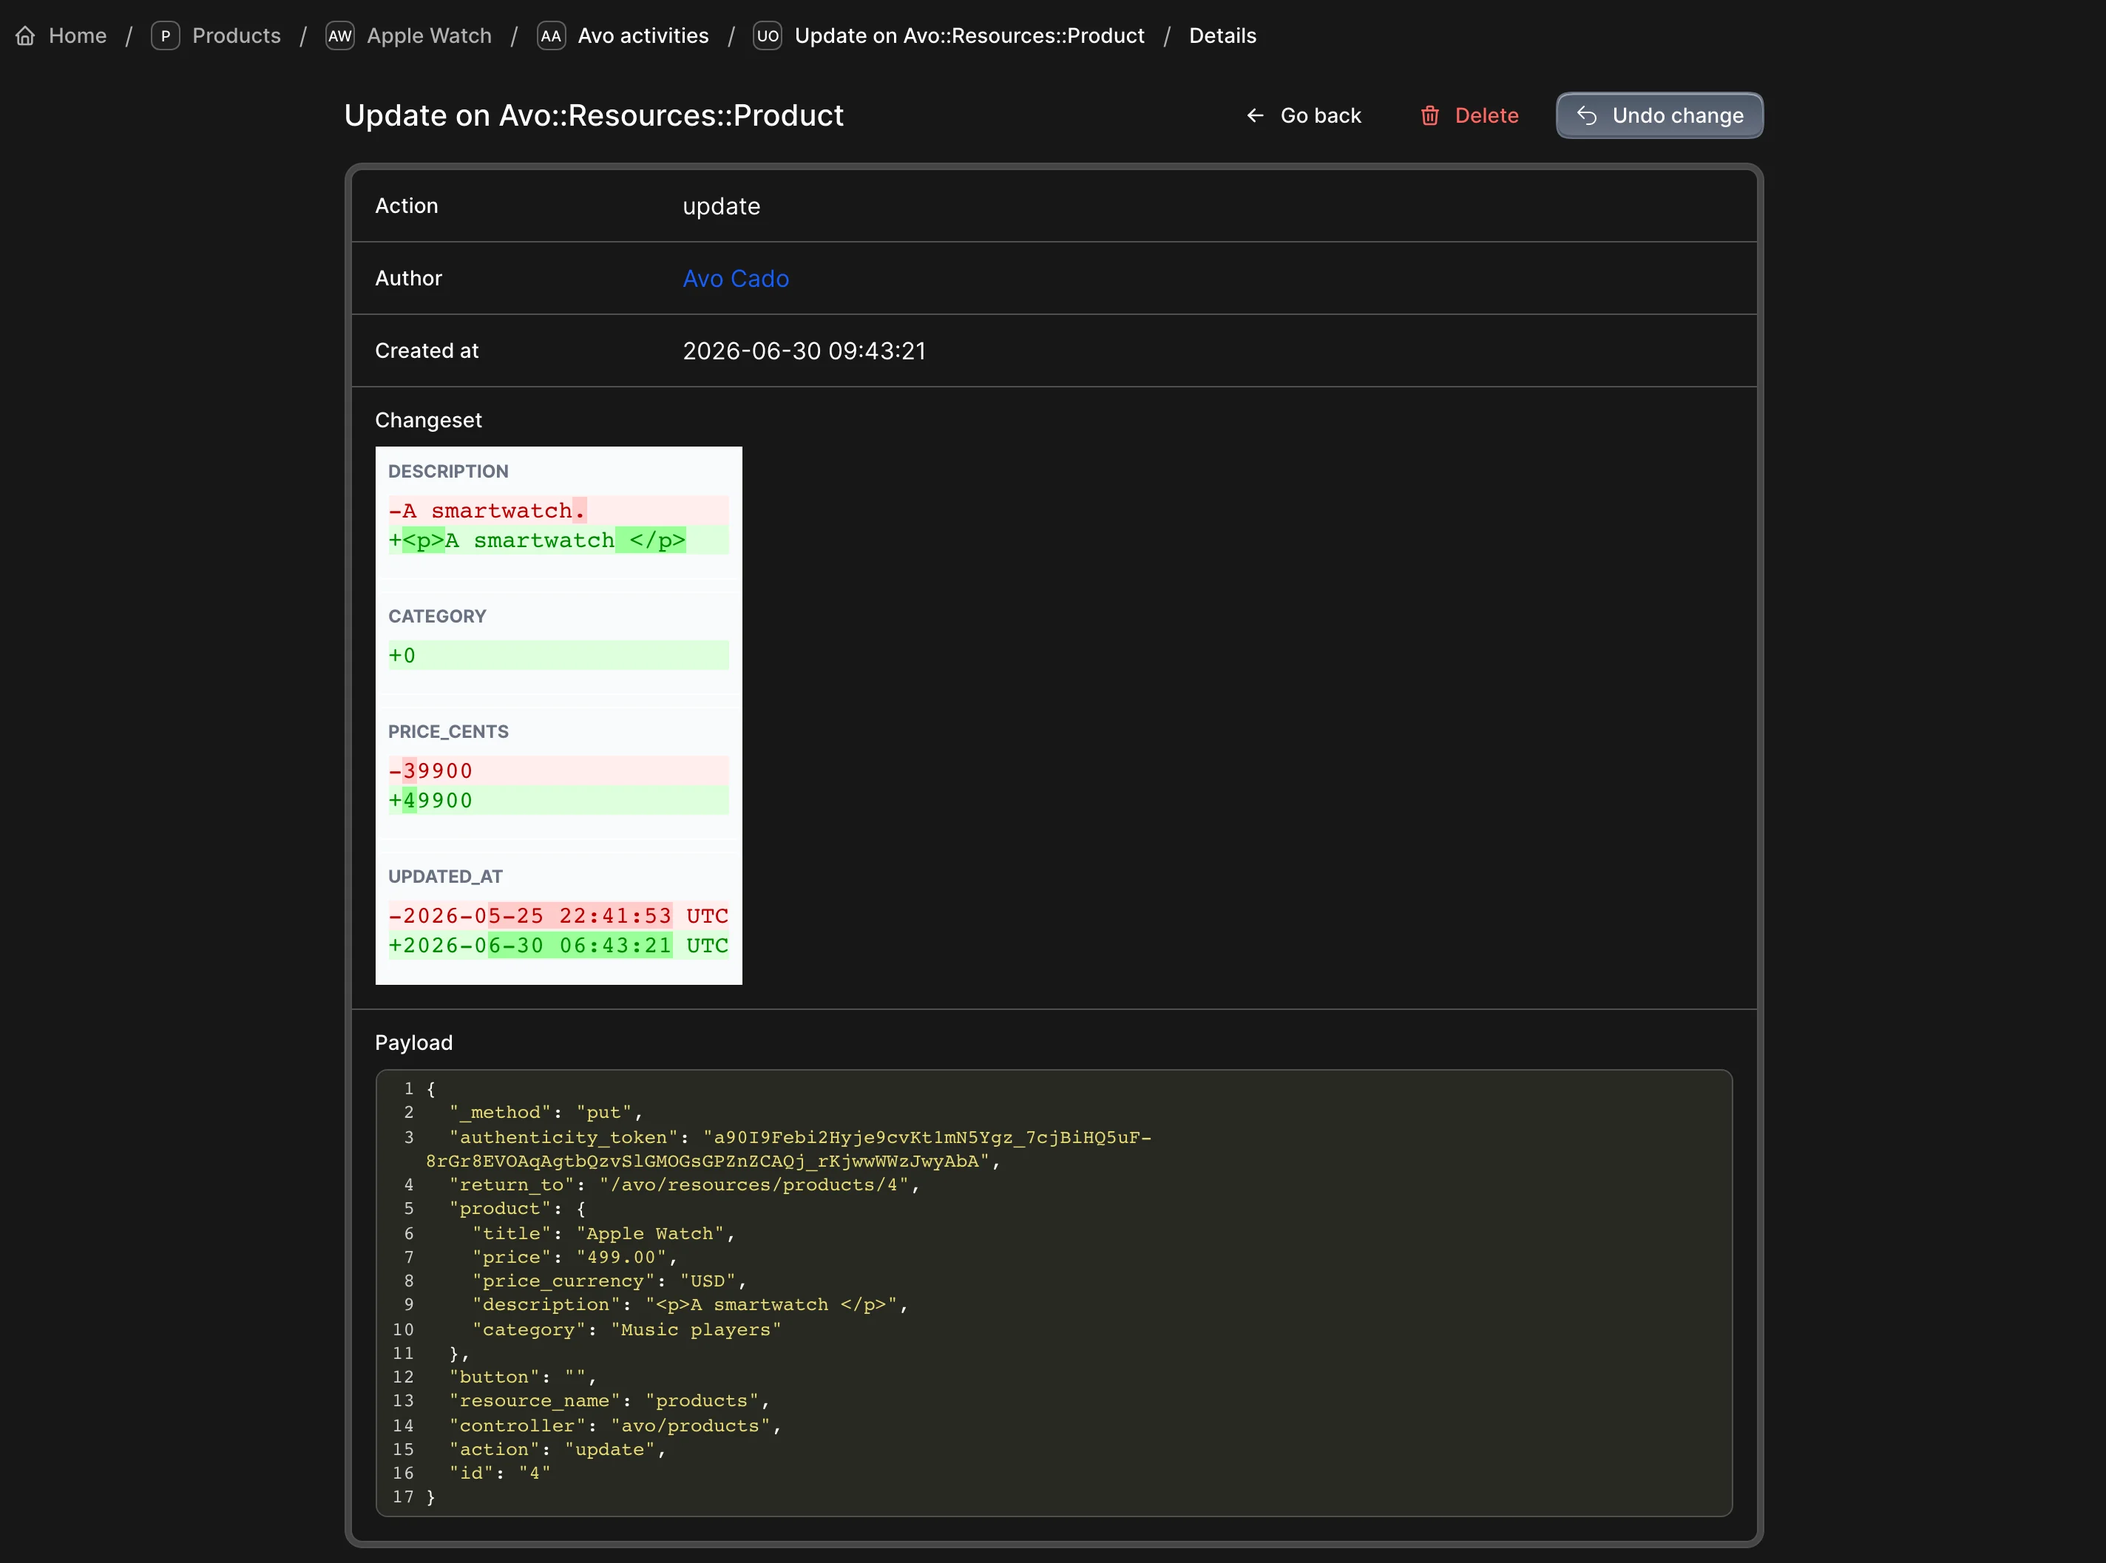
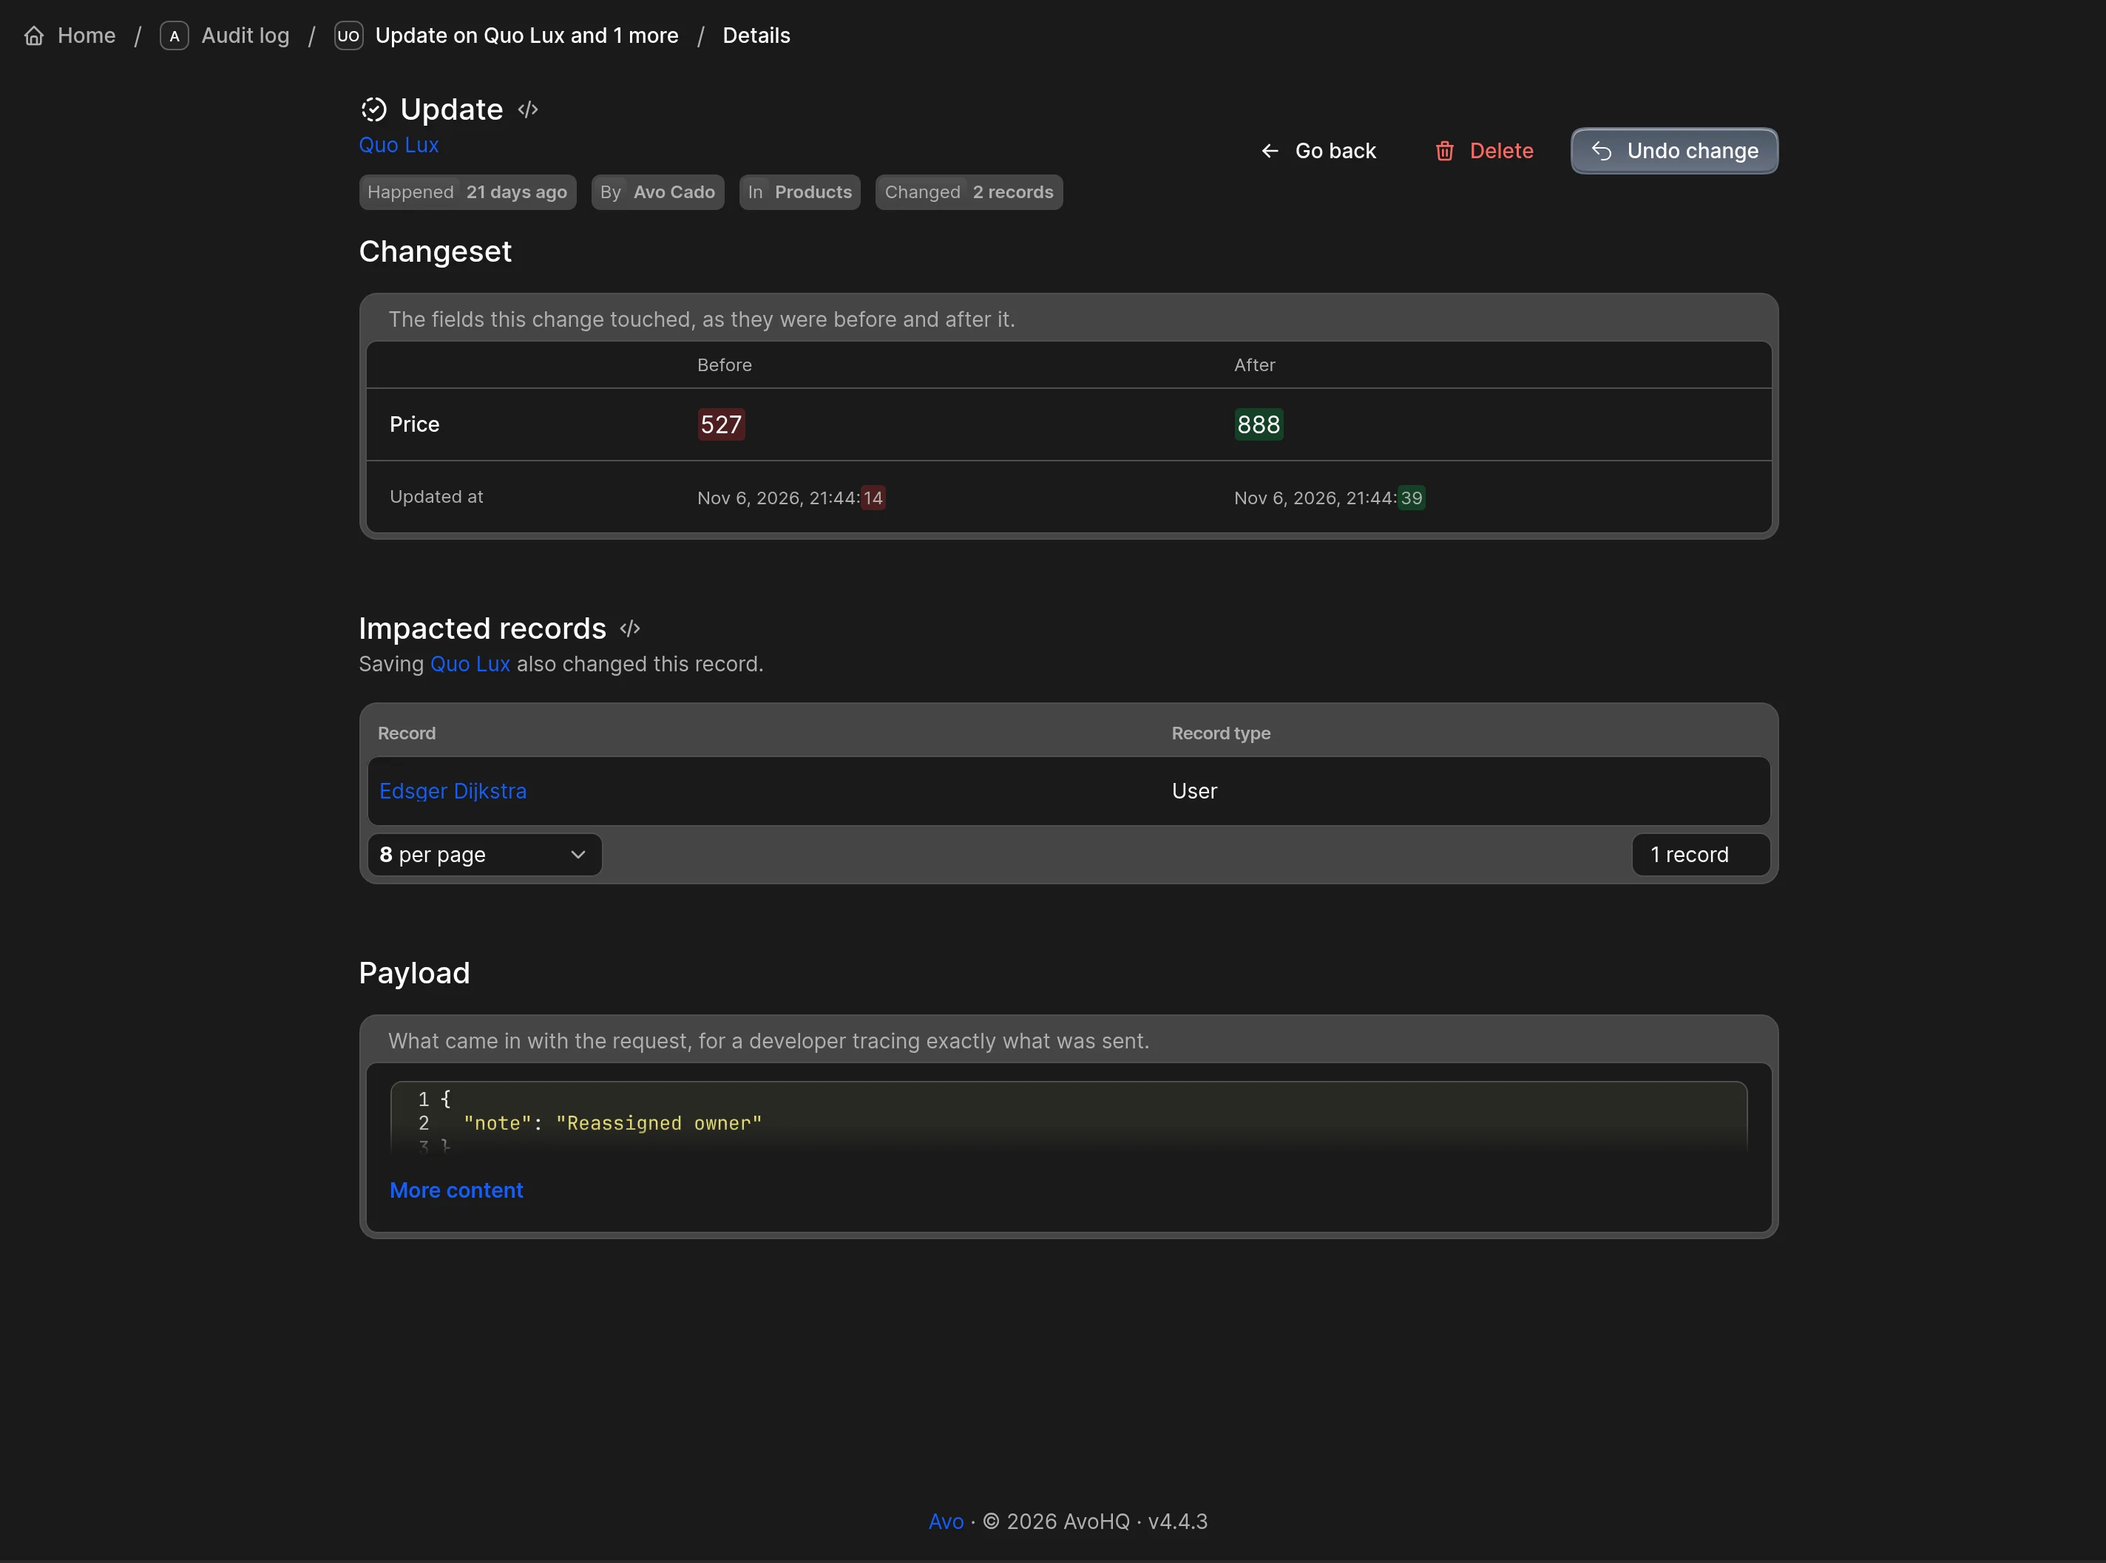
docs(audit-logging): the Audit log list and the reworked activity page
The page changed shape in avo-audit_logging 4.4.1, so the old text and screenshot described fields that are gone.
Covers the Changes tab, the pinned filters, the Changeset with Before, After and Now, Impacted records, Undo taking
chained records along, the `targeted` upgrade migration, the date format and origin label options, and the
`avo-diff_field` note for apps that used `as: :diff` through the gem's old dependency.

diff --git a/docs/4.0/audit-logging.md b/docs/4.0/audit-logging.md
@@ -20,7 +20,7 @@ Activity tracking works with either `paper_trail` or `audited`, but you must hav
 - An [Avo Enterprise](https://savvycal.com/avo-hq/discovery-call-ent) license — audit logging is an Enterprise feature
 - [Custom controls](./custom-controls) — the generated activity resources use `show_controls` and `index_controls`
 - [Authorization](./authorization) — the generated activity models use the authorization helpers (`authorizable_ransackable_attributes` / `authorizable_ransackable_associations`)
-- [`paper_trail`](https://github.com/paper-trail-gem/paper_trail) and `avo-diff_field` are installed automatically if not already present
+- [`paper_trail`](https://github.com/paper-trail-gem/paper_trail) is installed automatically if not already present
 
 ## Installation
 
@@ -79,7 +79,16 @@ bin/rails generate avo:audit_logging upgrade
 bin/rails db:migrate
 ```
 
-Today that is the [activity origin](#where-an-activity-came-from) columns. `install` does the same thing — it looks at your `db/migrate` and writes only what is missing, never touching a migration you have already run — so re-running it is safe too; `upgrade` is the same code path under a name that says so.
+Today that is the [activity origin](#where-an-activity-came-from) columns and the `targeted` column, which marks the record an activity was about. `install` does the same thing — it looks at your `db/migrate` and writes only what is missing, never touching a migration you have already run — so re-running it is safe too; `upgrade` is the same code path under a name that says so.
+:::
+
+:::warning Using `as: :diff` in your own resources?
+<VersionReq package="avo-audit_logging" version="4.4.1" /> The gem draws changesets itself and no longer installs `avo-diff_field`. If your own resources have fields with `as: :diff`, add the gem to your Gemfile to keep them:
+
+```ruby
+# Gemfile
+gem "avo-diff_field"
+```
 :::
 
 ## Enable and configure audit logging
@@ -257,7 +266,9 @@ end
 
 Each entry shows a compact relative time — hover over an entry to reveal its full date and time. Clicking an entry opens a detailed page, with the payload when the entry has one.
 
-<VersionReq package="avo-audit_logging" version="4.3.2" /> The activity's page is titled after the record it changed, such as *Update on Product #123*, or *Update on Product #123 and 2 more* when it changed several, and its **Record** field links back to that record. With several records the field shows how many, such as *3 records*. An action run keeps the action's name, such as *Handle on ChangePrice*, and its **Impacted records** list every record it ran on. The activity list shows the same in its **Record** column. The payload is pretty-printed when it holds JSON, and shown as stored when it doesn't.
+<VersionReq package="avo-audit_logging" version="4.4.1" /> The activity's page is headed by what happened, with the History card's icon and label, such as *Update* or an action's own name like *Change Price*. Under it is the record it changed, linked, or *3 records* when it changed several, and when, such as *Happened about 3 hours ago*, with the exact time on hover.
+
+A change to one record fills the **Changeset** panel: a row for each field it touched, with **Before** and **After** side by side, and its **Undo change** button next to **Delete**. A deleted record shows the values it had, and a created one the values it was created with. IDs and timestamps sit last, in smaller rows. When a later save changed one of these fields again, a **Now** column shows the values the record has today, the changed ones highlighted. **Undo change** puts the whole record back as it was before the change, so its confirmation names every field changed since, including ones this change never touched (*Price has changed since*). Tags under the title say who made the change (*By Ada Lovelace*, linked), what it came through when it wasn't the panel (*Through MCP connection*), and which section it belongs to (*In Products*). Below, **Payload** holds what Avo received with the request, pretty-printed when it's JSON, for a developer tracing exactly what was sent. When an edit's save also changed other records, such as through a callback, the page still leads with the record you edited, a *Changed 4 records* note under the title takes you down to the others, and **Impacted records** lists them with "Saving Desk lamp also changed these 3 records." An action run on several records lists them all under **Impacted records**, each with its own changeset and Undo. Entries recorded before the `targeted` column existed don't know which record was edited, so a change to several records shows them all under **Impacted records**. The browser tab and the breadcrumbs read *Update on Desk lamp*, or *Update on Desk lamp and 2 more*.
 
 <Image src="/assets/img/4_0/audit-logging/hover-activities.webp" dark-src="/assets/img/4_0/audit-logging/hover-activities-dark.webp" width="356" height="422" alt="The History activity timeline card showing compact relative timestamps" />
 
@@ -338,9 +349,11 @@ end
 
 Once enabled, the changelog will be visible, along with an action to revert changes.
 
+<VersionReq package="avo-audit_logging" version="4.4.1" /> When the save you undo also changed other records, such as through a callback, the confirmation lists them under **Also put back**. Tick the ones to restore along with it. Each takes the same permission as undoing it on its own, and they all go back together or not at all. One that changed again since is marked *changed again since*.
+
 With [authorization](./authorization.html) enabled, reverting asks the record's policy: [`update?`](./authorization-api.html#update) on the record, found through its policy scope, or [`create?`](./authorization-api.html#create) to bring back a destroyed record. Users the policy refuses don't see the revert action. The changeset diff and the payload leave out fields the user's [field policy](./authorization.html#hide-fields-from-a-user) withholds.
 
-<Image src="/assets/img/4_0/audit-logging/activity-details.webp" dark-src="/assets/img/4_0/audit-logging/activity-details-dark.webp" width="2848" height="2114" alt="An update activity detail page showing the changeset diff and payload, with breadcrumbs and title" />
+<Image src="/assets/img/4_0/audit-logging/activity-details.webp" dark-src="/assets/img/4_0/audit-logging/activity-details-dark.webp" width="2848" height="2114" alt="An update activity page: the action and the record it changed, tags for when, who and where, the Changeset with Before and After, the Impacted records its save changed, and the Payload" />
 
 :::warning Missing `changeset` field
 If the `changeset` field in the versions table consistently appears as `nil`, ensure you add the following configuration in your `application.rb` file:
@@ -388,9 +401,38 @@ Avo.configure do |config|
 end
 ```
 
+<VersionReq package="avo-audit_logging" version="4.4.1" /> The page is called **Audit log**. It opens on the **Changes** tab, which leaves out page visits (*Index page*, *Show page* and the like), and **All** lists every entry. The tab needs [avo-scopes](./scopes.html); without it the list shows everything. Activity tables on other pages, such as [a user's own activity](#show-all-activity-by-an-author), open on **All**. Its columns read when, what and who from the left: **Created at**, **Action** and **Author**. The **Action** column shows the same label and icon as the History card, such as *Update*, or the action's own name for an action run. The **Section** column names the resource or action as your menu does, such as *Products* or *Change Price*. Long names are cut to one line, with the whole name on hover, and an entry on several records lists them when you hover the icon next to *3 records*. A row that changed one record has a preview icon that shows the change. A page visit, or a change to several records, has none: open the activity to see each change.
+
+With [Dynamic Filters](./dynamic-filters.html) installed, the bar keeps **Created at**, **Action**, **Author** and **Origin** in place, in the order of the columns. **Author** lists everyone with an entry, deleted users included, and **Origin** offers one choice per kind: *Background job* covers every job, and *UI* covers changes made in the panel. **Section** and **Record** are under *Add filter*. With the [new filter dropdown](./dynamic-filters.html#try-the-new-filter-dropdown) and `inline_filters` on, **Created at** sits in the bar with *Today*, *7 days*, *30 days* and *This month*.
+
+To call the page something else, set its name in your locale file. `one` names a single entry and `other` names the page. The gem ships these in English, so add them for any other language your app uses.
+
+The rest of the audit log's own words, such as *Happened*, *Changeset* and *Undo change*, are under `avo.audit_logging` in the gem's `config/locales/en.yml`. A language you haven't added them for reads them in English.
+
+```yaml
+# config/locales/en.yml
+en:
+  avo:
+    resource_translations:
+      avo_activity:
+        one: "Activity"
+        other: "Activity log"
+```
+
+### Change the date format
+
+<VersionReq package="avo-audit_logging" version="4.4.1" /> The list shows the date like *September 10, 2024, 11:24:17*. To change it, set `created_at_format`, which takes the same [Luxon tokens](https://moment.github.io/luxon/#/formatting?id=table-of-tokens) as the `format` option of the [`date_time` field](./fields/date_time.html).
+
+```ruby
+# config/initializers/avo.rb
+Avo.configure do |config|
+  config.audit_logging.activity_resource = {created_at_format: "yyyy-LL-dd TT"} # [!code ++]
+end
+```
+
 ## Where an activity came from
 
-Most activities come from somebody clicking in the panel, and those carry no origin — a marker on every row would say nothing. Anything else names itself, so you can tell a change your team made from a change something else made on their behalf.
+Most activities come from somebody clicking in the panel, and those carry no origin — a marker on every row would say nothing — so the **Origin** field reads *UI* for them, and the record's timeline says nothing. Anything else names itself, so you can tell a change your team made from a change something else made on their behalf.
 
 Three of Avo's own add-ons name themselves, each after the record the entry points back to:
 
@@ -409,7 +451,7 @@ Two columns hold it:
 | `origin`        | A short name for what acted — `"mcp_connection"`, `"api_token"`, `"ai_chat"`, or a name of your own. `nil` for the panel. |
 | `origin_record` | Optional, polymorphic: the thing that acted. Linked from the activity's page where it still exists. |
 
-Filter the activity index by **Origin** to see everything one kind of actor did, or scope a query directly:
+Filter the activity index by **Origin** to see everything one kind of actor did, *UI* included, or scope a query directly:
 
 ```ruby
 Avo::AuditLogging::Activity.from_origin("mcp_connection")   # everything MCP clients did
@@ -447,6 +489,36 @@ en:
 Activities recorded before you upgraded have no origin, and neither do activities recorded by an app that hasn't run the new migration yet. Both keep working — they just read as the panel's own.
 :::
 
+### Rename the origin labels
+
+<VersionReq package="avo-audit_logging" version="4.4.1" /> To change what an origin reads as, set `config.audit_logging.origin_labels`. It takes any origin in the table below, or a name of your own, and every label you leave out stays as it is.
+
+```ruby
+# config/initializers/avo.rb
+Avo.configure do |config|
+  config.audit_logging.origin_labels = { # [!code ++]
+    ui: "Admin panel", # [!code ++]
+    job: "Scheduled task", # [!code ++]
+    nightly_importer: "Nightly import" # [!code ++]
+  } # [!code ++]
+end
+```
+
+| Key              | Default label     | What acted                                         |
+| ---------------- | ----------------- | -------------------------------------------------- |
+| `ui`             | UI                | A person in the panel                              |
+| `mcp_connection` | MCP connection    | An AI client through the MCP server                |
+| `api_token`      | API token         | A request through the REST API with a token        |
+| `api`            | API               | A request through the REST API without a token     |
+| `ai_chat`        | AI chat           | Avo AI                                             |
+| `job`            | Background job    | A job, for a change made outside Avo               |
+| `request`        | App               | Your app's own pages, for a change made outside Avo |
+| `console`        | Developer console | The Rails console, for a change made outside Avo   |
+| `rake`           | Script            | A rake task, for a change made outside Avo         |
+| `model`          | System            | Anything else, for a change made outside Avo       |
+
+These labels win over your locale file and are the same in every language. If your app uses several languages, set them under `avo.audit_logging.origins` in each locale file instead.
+
 ### Record activity from your own code
 
 <VersionReq package="avo-audit_logging" version="4.3.2" />
@@ -470,6 +542,8 @@ end
 ```
 
 Avo finds the record's resource and links the activity to the record, so it shows up on the record's timeline like a change made in the panel. `payload` can be any hash; Avo stores it as JSON, [with secrets masked](#keep-secrets-out-of-the-payload).
+
+Without an `origin:`, the entry reads *UI* in the **Origin** field, as if a person made the change in the panel. Pass one to say what acted, such as `origin: "price_updater"`.
 
 Like the panel, it only records for resources that opted in with [`self.audit_logging`](#enable-specific-resources-and-actions), and it asks your `activity` block and `actions` the same way. It returns the activity, or `nil` when audit logging is switched off or the opt-in says no. It raises `ArgumentError` when the record's model has no Avo resource, or when the record hasn't been saved yet. The activity and its link to the record are saved together, or not at all.
 
